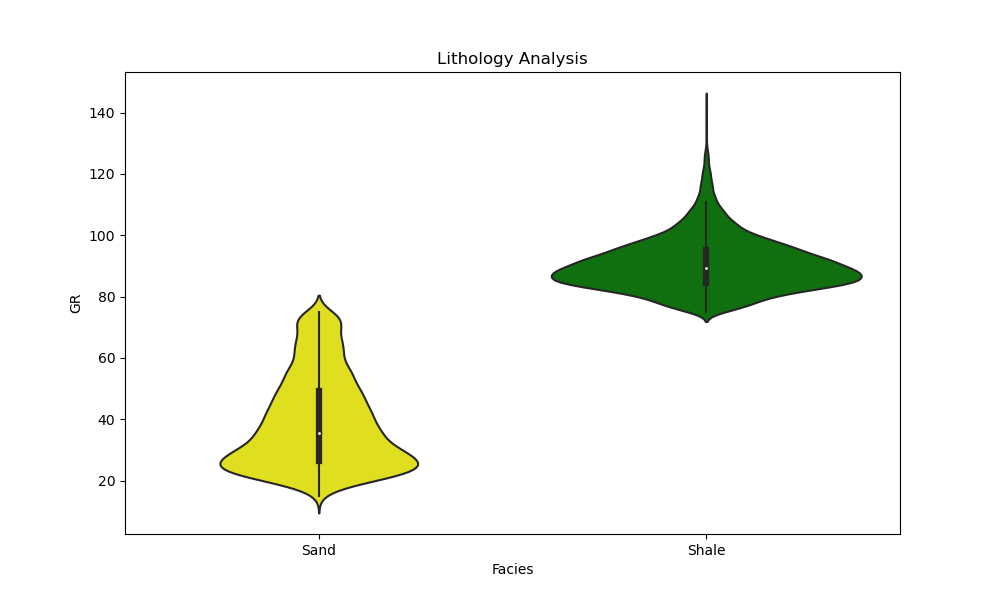
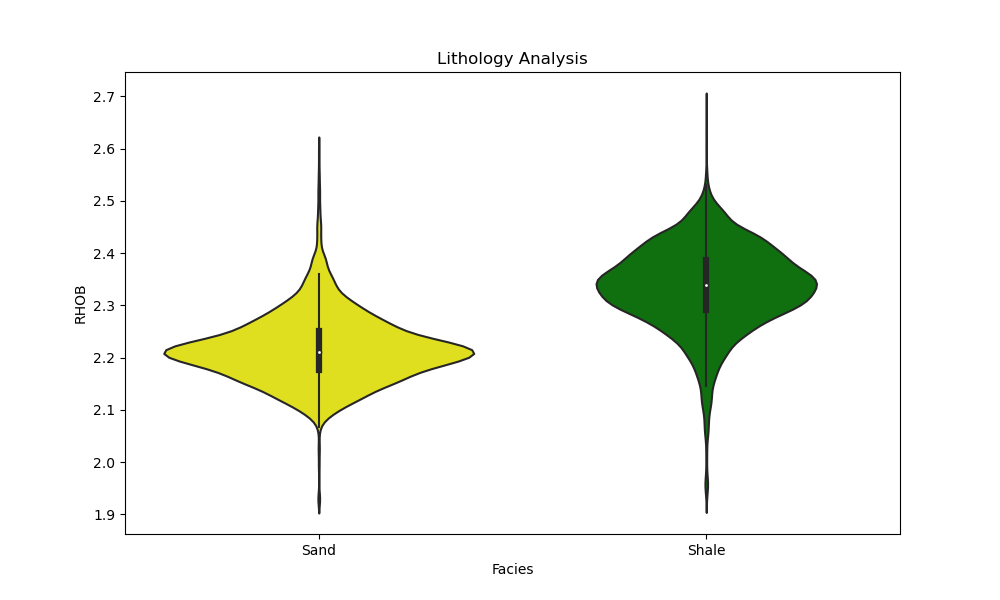
commit

diff --git a/new.py b/new.py
@@ -176,7 +176,7 @@ def main():
     # Function to plot violin plot for facies
     def plot_violin_facies(df):
         fig, ax = plt.subplots(figsize=(10, 6))
-        sns.violinplot(x='Facies', y=RHOB, data=df, palette=['yellow', 'green'], ax=ax)
+        sns.violinplot(x='Facies', y=density_col, data=df, palette=['yellow', 'green'], ax=ax)
         ax.set_title('Lithology Analysis')
         return fig
 
